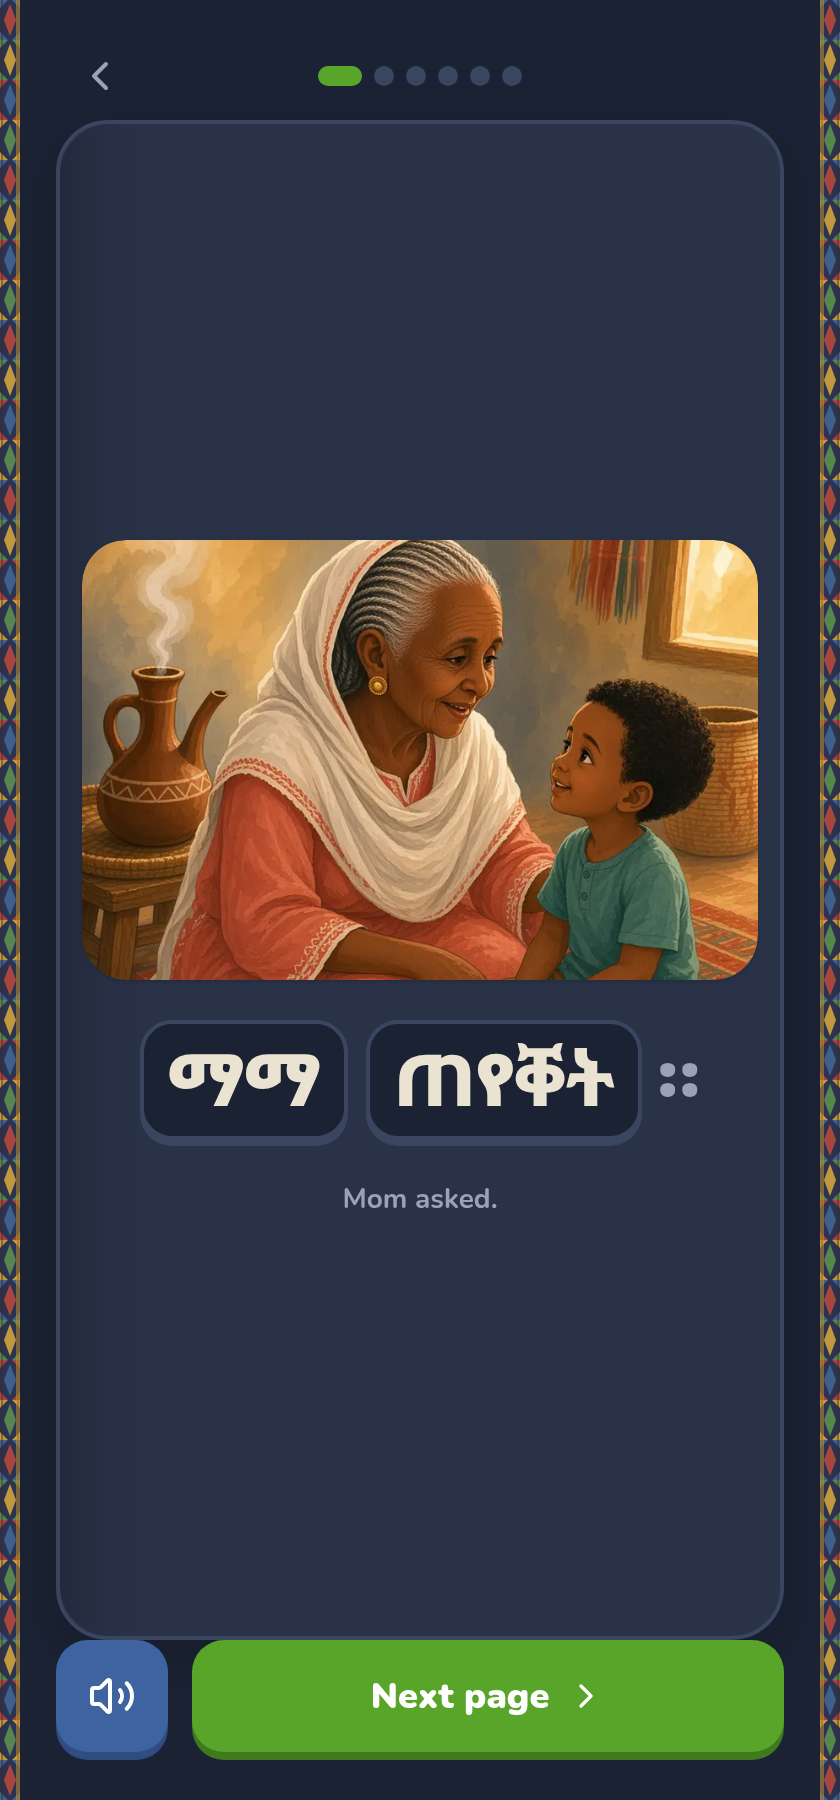
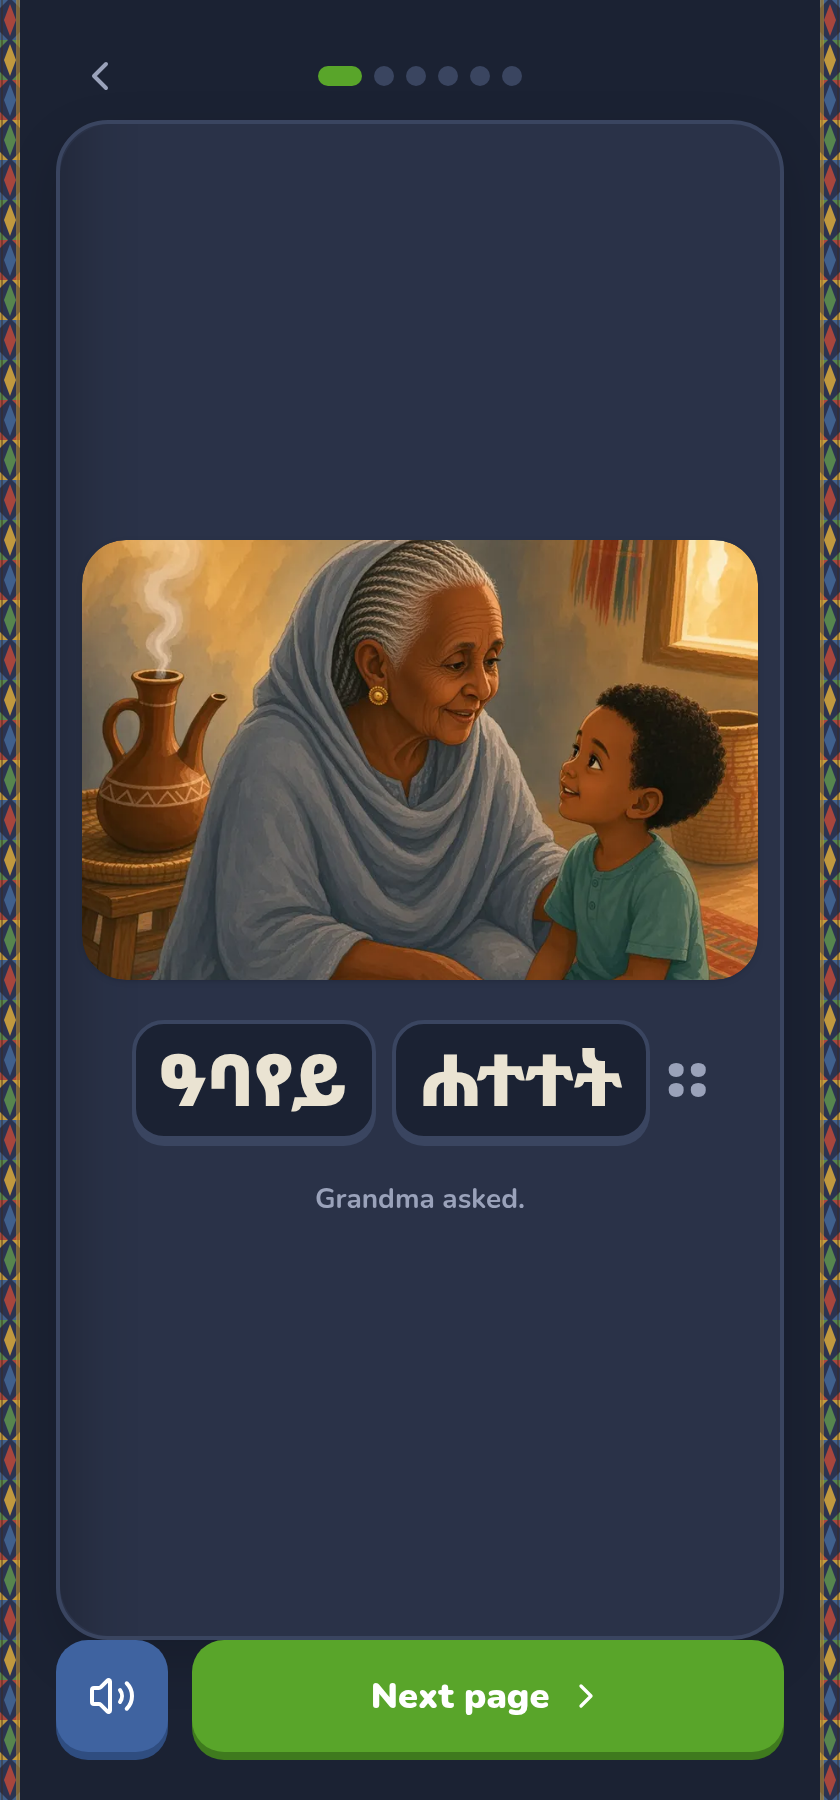
School Path GR1: lock Yosief's two story lines
Helping at Home opens with ዓባየይ ሐተተት, and the paintings show grandma. Moon and Stars ends with ቆልዓ ኣይደቀሰን, and the child stays awake.

Changed region(s): [[0.0929, 0.28, 0.8976, 0.6844], [0.7119, 0.28, 0.7738, 0.3422], [0.2167, 0.3111, 0.2476, 0.3422]]

diff --git a/src/data/schoolPathGr1Stories.js b/src/data/schoolPathGr1Stories.js
@@ -130,14 +130,14 @@ const ART = {
     },
   },
   'help-at-home': {
-    pics: ['👩', '💧', '☕', '🍞', '🧼', '🤗'],
+    pics: ['👵', '💧', '☕', '🍞', '🧼', '🤗'],
     scenes: [
-      painted('help-at-home', 1, { bg: 'kitchen', items: [{ ...MOM, x: 0.4, foot: 0.78, s: 0.34 }, { ...KID, x: 0.68, foot: 0.8, s: 0.28 }] }),
+      painted('help-at-home', 1, { bg: 'kitchen', items: [{ ...GRANDMA, x: 0.4, foot: 0.78, s: 0.34 }, { ...KID, x: 0.68, foot: 0.8, s: 0.28 }] }),
       painted('help-at-home', 2, { bg: 'kitchen', items: [{ ...KID, x: 0.46, foot: 0.78, s: 0.3 }] }),
       painted('help-at-home', 3, { bg: 'kitchen', items: [{ ...KID, x: 0.4, foot: 0.78, s: 0.3 }, { k: 'pot', x: 0.68, y: 0.5, s: 0.22 }] }),
-      painted('help-at-home', 4, { bg: 'kitchen', items: [{ ...KID, x: 0.36, foot: 0.78, s: 0.28 }, { ...MOM, x: 0.66, foot: 0.76, s: 0.32 }] }),
+      painted('help-at-home', 4, { bg: 'kitchen', items: [{ ...KID, x: 0.36, foot: 0.78, s: 0.28 }, { ...GRANDMA, x: 0.66, foot: 0.76, s: 0.32 }] }),
       painted('help-at-home', 5, { bg: 'kitchen', items: [{ ...KID, x: 0.48, foot: 0.78, s: 0.3 }] }),
-      painted('help-at-home', 6, { bg: 'indoor', items: [{ ...MOM, x: 0.4, foot: 0.76, s: 0.34 }, { ...KID, x: 0.66, foot: 0.8, s: 0.28 }] }),
+      painted('help-at-home', 6, { bg: 'indoor', items: [{ ...GRANDMA, x: 0.4, foot: 0.76, s: 0.34 }, { ...KID, x: 0.66, foot: 0.8, s: 0.28 }] }),
     ],
     question: {
       en: 'What did the child hold?',
@@ -160,14 +160,14 @@ const ART = {
     },
   },
   'moon-and-stars': {
-    pics: ['🌙', '🌕', '⭐', '🧒', '🎵', '😴'],
+    pics: ['🌙', '🌕', '⭐', '🧒', '🎵', '🧒'],
     scenes: [
       painted('moon-and-stars', 1, { bg: 'night', items: [{ k: 'house', x: 0.55, y: 0.55, s: 0.34 }] }),
       painted('moon-and-stars', 2, { bg: 'night', items: [{ k: 'moon', x: 0.62, y: 0.28, s: 0.22 }] }),
       painted('moon-and-stars', 3, { bg: 'night', items: [{ k: 'moon', x: 0.35, y: 0.3, s: 0.16 }] }),
       painted('moon-and-stars', 4, { bg: 'indoor', items: [{ ...KID, x: 0.42, foot: 0.78, s: 0.3 }] }),
       painted('moon-and-stars', 5, { bg: 'indoor', items: [{ ...KID, x: 0.46, foot: 0.8, s: 0.3 }, { k: 'note', x: 0.7, y: 0.32, s: 0.14 }] }),
-      painted('moon-and-stars', 6, { bg: 'night', items: [{ ...KID, x: 0.46, foot: 0.8, s: 0.28 }, { k: 'zzz', x: 0.68, y: 0.32, s: 0.14 }, { k: 'moon', x: 0.78, y: 0.24, s: 0.14 }] }),
+      painted('moon-and-stars', 6, { bg: 'night', items: [{ ...KID, x: 0.46, foot: 0.8, s: 0.28 }, { k: 'moon', x: 0.78, y: 0.24, s: 0.14 }] }),
     ],
     question: {
       en: 'What did the child see in the sky?',

diff --git a/src/data/schoolPathGr1Stories.test.js b/src/data/schoolPathGr1Stories.test.js
@@ -165,7 +165,9 @@ describe('school path story pack', () => {
     expect(rain.pages[4].geez).toBe('ዝናብ የለን።')
     const help = byId['help-at-home']
     expect(help.titleTi).toBe('ኣብ ቤት ሓገዝ')
-    expect(help.pages[0].geez).toBe('ማማ ጠየቐት።')
+    expect(help.pages[0].geez).toBe('ዓባየይ ሐተተት።')
+    expect(help.pages[0].meaningEn).toBe('Grandma asked.')
+    expect(help.pages[0].familyIds).toEqual(['ae', 'be', 'ye', 'hha', 'te'])
     expect(help.pages[4].geez).toBe('ቆልዓ ኢዱ ሓጸበ።')
     expect(help.refrain.geez).toBe('ቆልዓ ሓገዘ።')
     const bajaj = byId['bajaj-ride']
@@ -177,7 +179,9 @@ describe('school path story pack', () => {
     expect(moon.titleTi).toBe('ወርሒን ኮኾብን')
     expect(moon.pages[1].geez).toBe('ወርሒ ኣሎ።')
     expect(moon.pages[2].geez).toBe('ኮኾብ ኣሎ።')
-    expect(moon.pages.at(-1).geez).toBe('ቆልዓ ደቀሰ።')
+    expect(moon.pages.at(-1).geez).toBe('ቆልዓ ኣይደቀሰን።')
+    expect(moon.pages.at(-1).meaningEn).toBe('The child did not sleep.')
+    expect(moon.pages.at(-1).familyIds).toEqual(['qe', 'le', 'ae', 'a', 'ye', 'de', 'se', 'ne'])
     for (const id of ['market-day', 'rain-came', 'help-at-home', 'bajaj-ride', 'moon-and-stars']) {
       expect(tiTitles).toContain(byId[id].titleTi)
       expect(byId[id].unlockAfterUnitId).toBe('u11')
